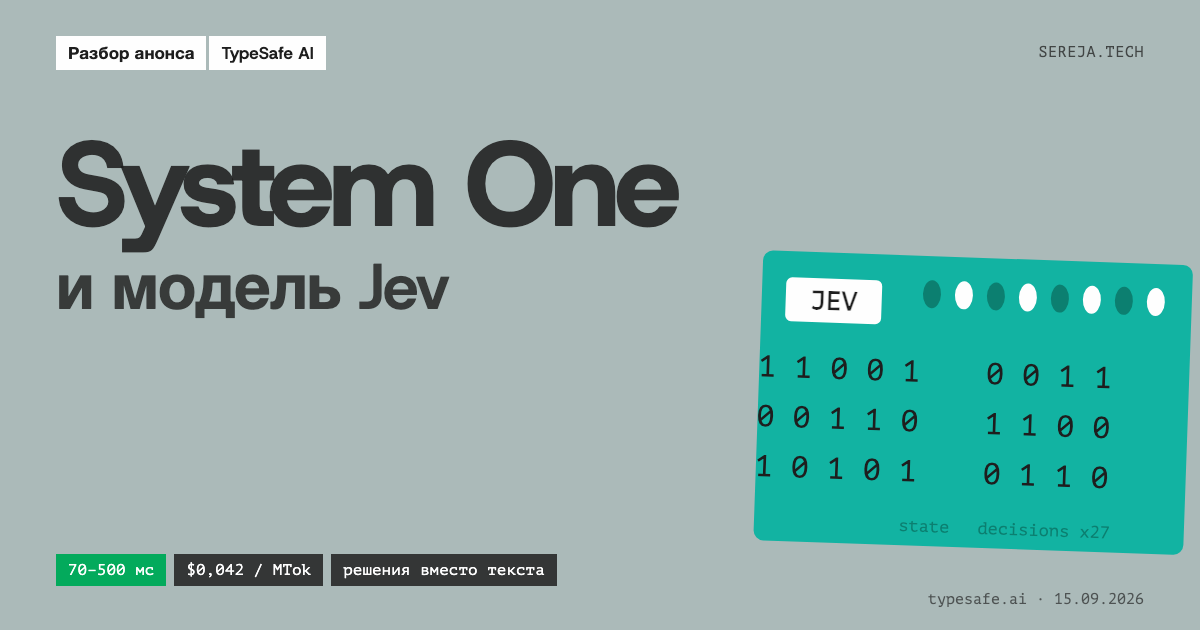
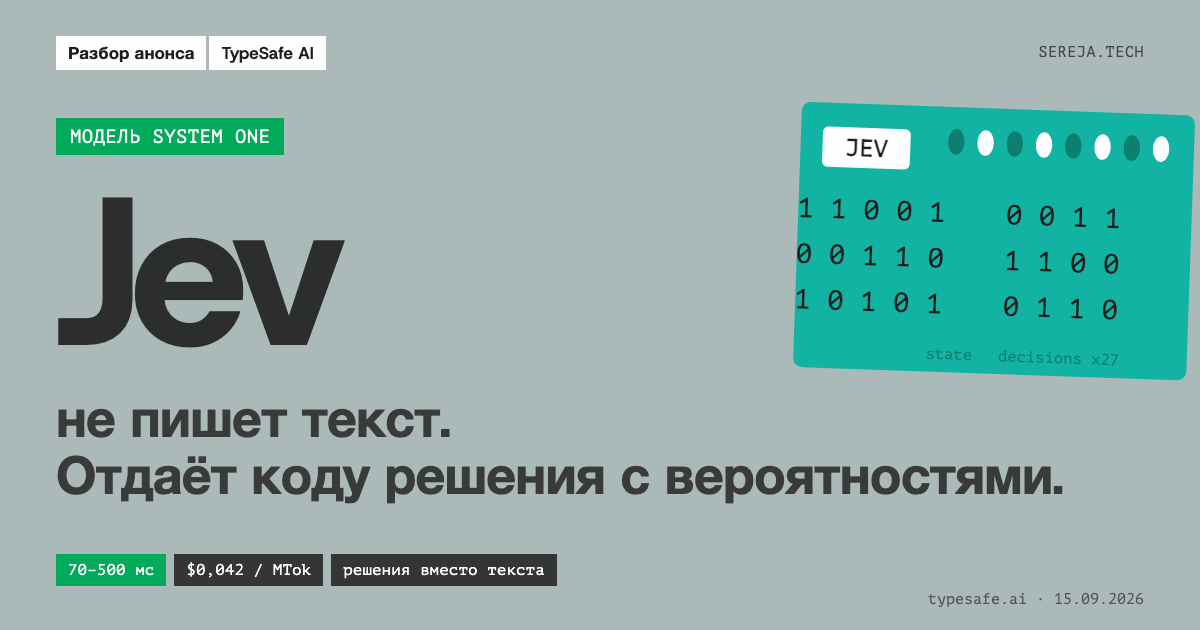
fix(blog): Jev вынесен в хук — заголовок, описание и обложка

Changed region(s): [[0.0308, 0.1508, 1.0, 0.9048], [0.0308, 0.181, 0.5858, 0.573], [0.0308, 0.6333, 0.37, 0.6937]]

diff --git a/content/blog/typesafe-system-one-jev.md b/content/blog/typesafe-system-one-jev.md
@@ -1,7 +1,7 @@
 ---
-title: "Jev и модели System One: разбор анонса TypeSafe"
+title: "Jev: модель, которая не пишет текст"
 date: 2026-09-17
-description: "Разбор анонса TypeSafe: модель Jev не генерирует текст, а отдаёт коду типизированные решения с вероятностями. Откуда 193,6× и 444,6× и что настораживает."
+description: "TypeSafe выпустила Jev: модель не пишет текст, а отдаёт коду решения с вероятностями за 70–500 мс. Как это работает и откуда 193,6× и 444,6×."
 tags: ["LLM", "автоматизация", "агенты"]
 image: /images/blog/typesafe-system-one-jev-preview.png
 intro: "LLM отвечают людям. TypeSafe построили модель, которая отвечает софту: не строками, а типизированными решениями с вероятностями. Разобрал их анонс, сверстал реплику страницы и проверил, откуда берутся заявленные 193,6× и 444,6×."

diff --git a/README.md b/README.md
@@ -36,7 +36,7 @@
 
 | Дата | Статья |
 |------|--------|
-| 2026-09-17 | [Jev и модели System One: разбор анонса TypeSafe](https://sereja.tech/blog/typesafe-system-one-jev/) |
+| 2026-09-17 | [Jev: модель, которая не пишет текст](https://sereja.tech/blog/typesafe-system-one-jev/) |
 | 2026-09-14 | [Зачем агентам задачи, если им можно просто написать словами](https://sereja.tech/blog/why-agents-need-tasks/) |
 | 2026-09-08 | [ChatGPT Images 2.5: лучший генератор из виденных](https://sereja.tech/blog/chatgpt-images-2-5/) |
 | 2026-09-05 | [Цикл разработки с агентами: 6 шагов до деплоя](https://sereja.tech/blog/sdlc-agent-cycle/) |
